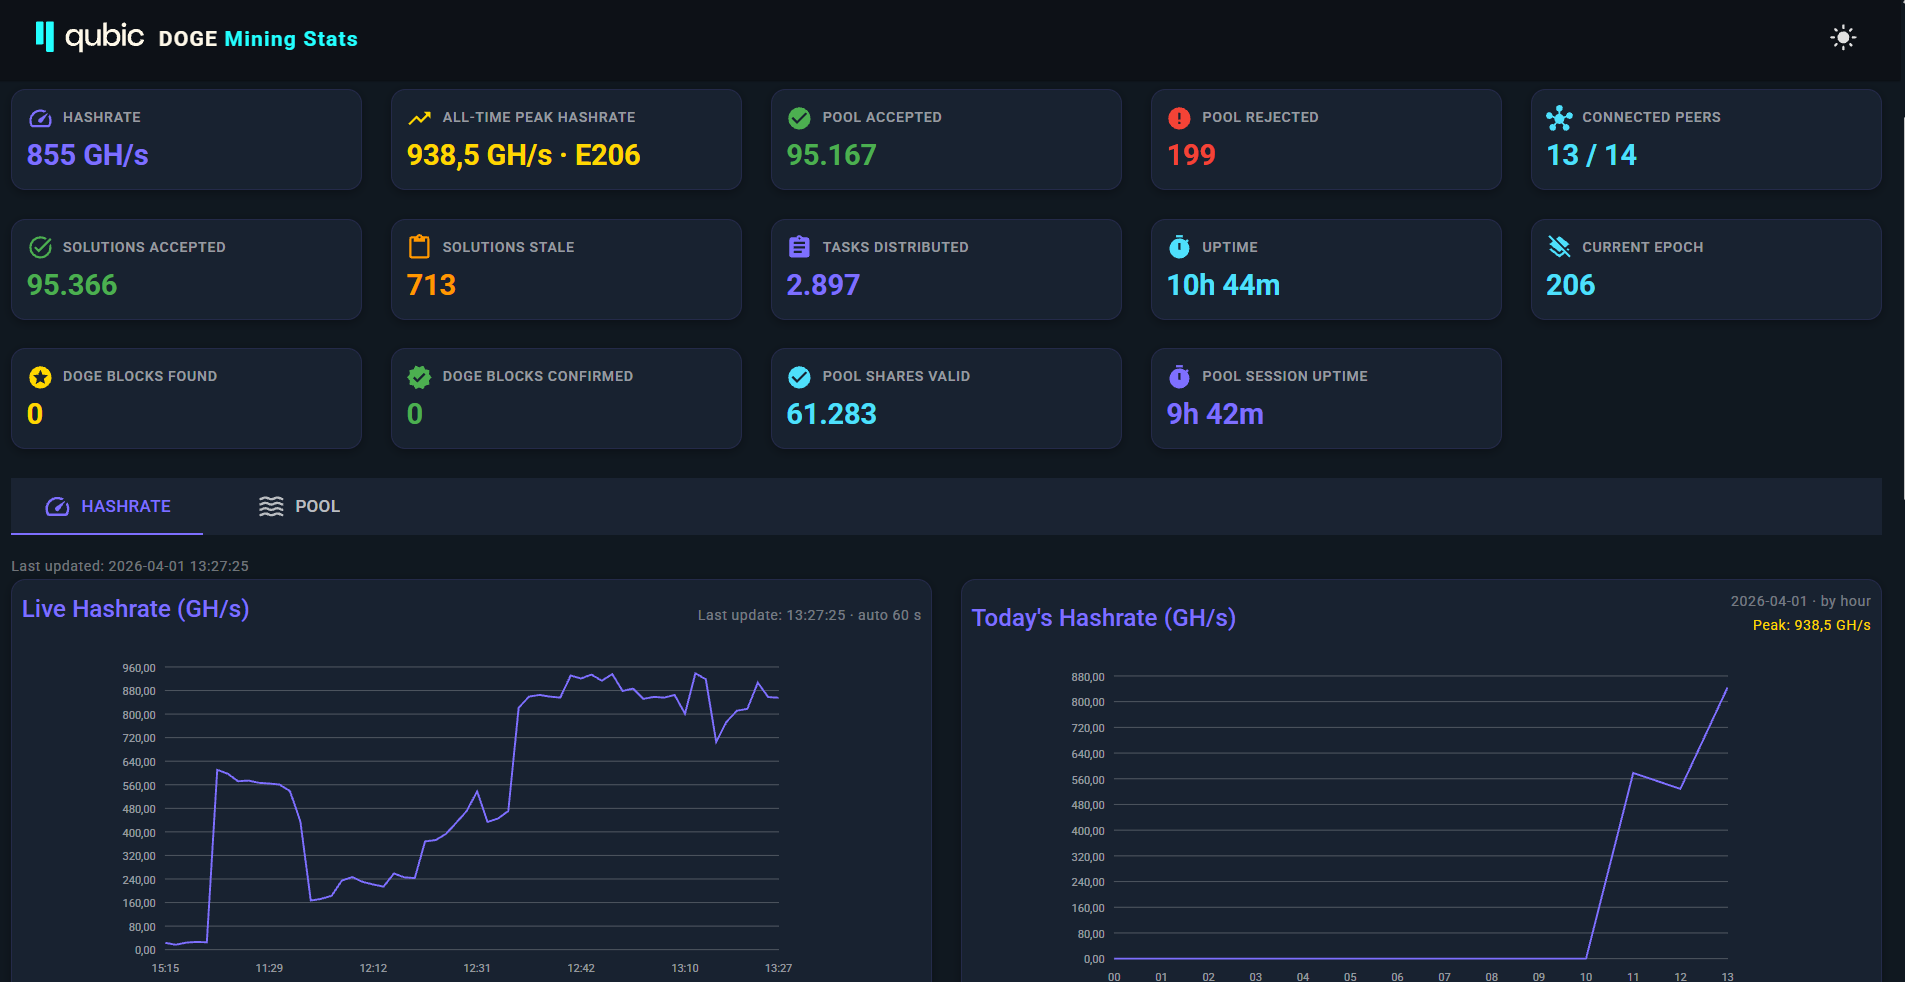
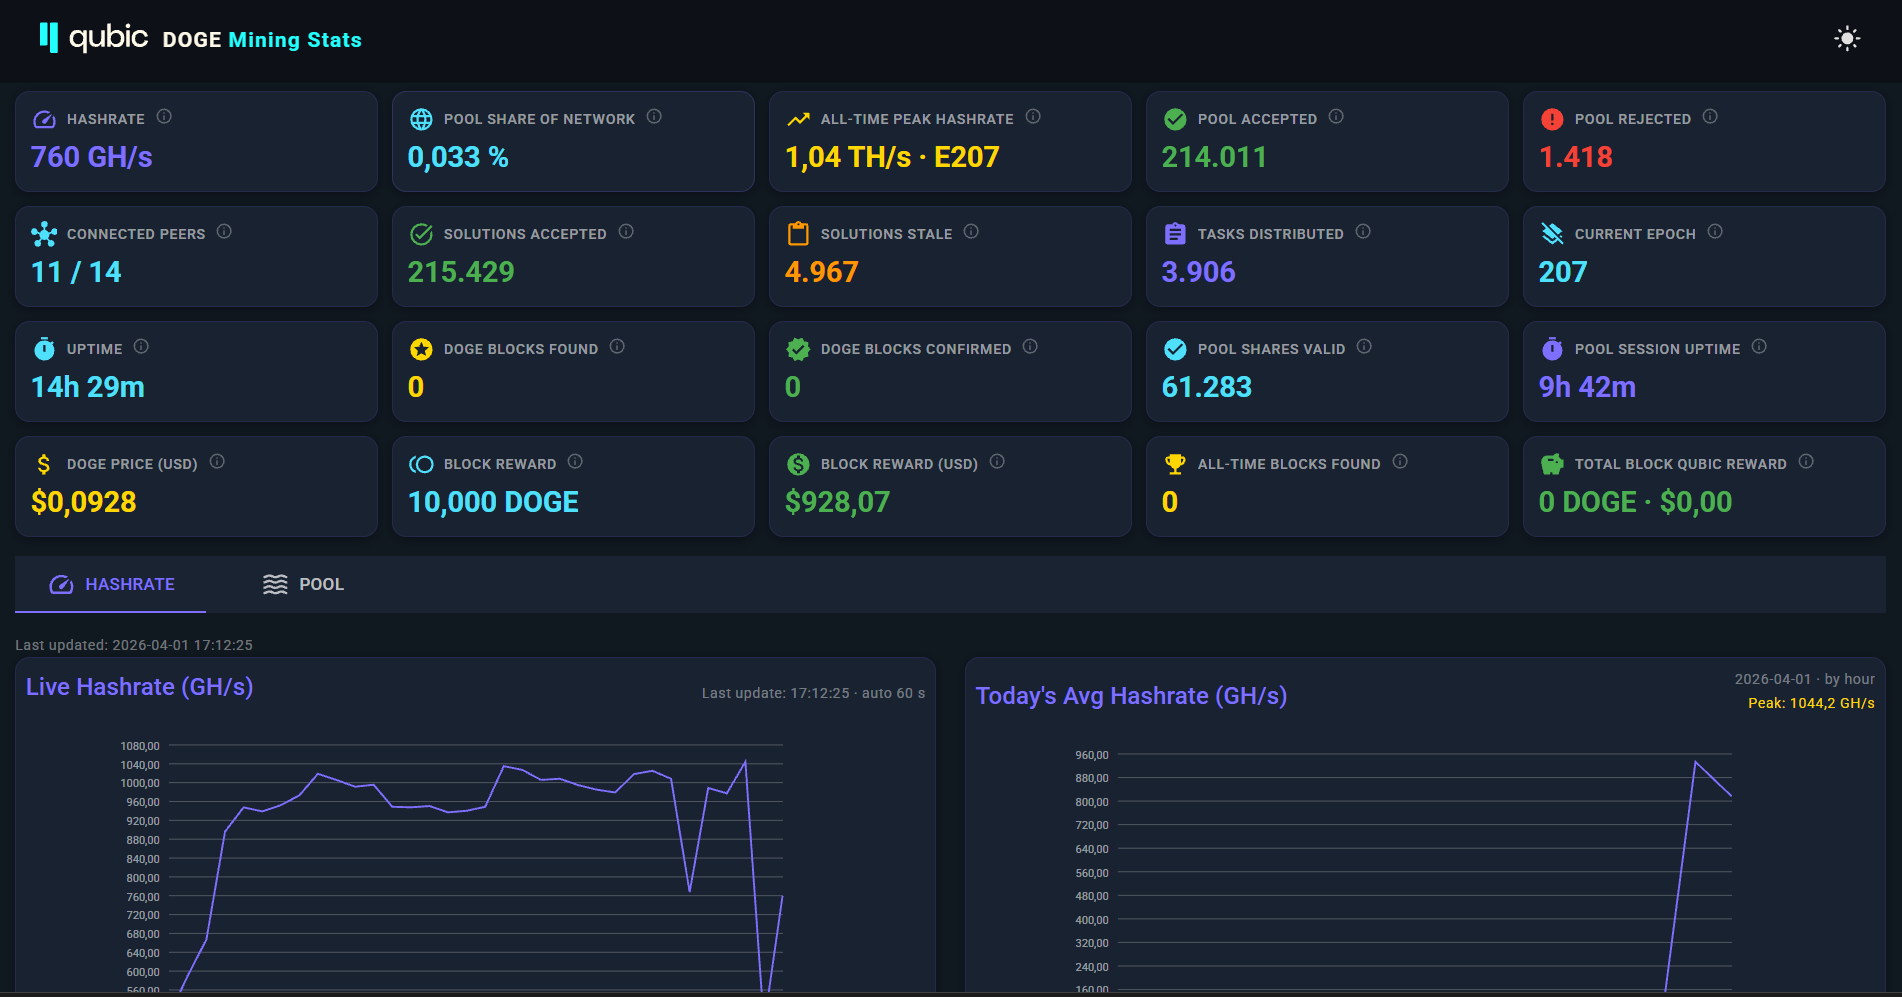
feat: v0.0.3 — glass UI, epoch chart fix, countdown removed
- Light mode: iOS-style glassmorphism with subtle lavender page tint
- Epoch timeline chart: filter by QubicEpoch tag only (was broken on epoch change day)
- Removed countdown section and CountdownBlock component
- Chart titles now show "Avg" where averages are displayed
- Hashrate ≥ 1 TH/s formatted with 2 decimal places
- Bump version to 0.0.3

diff --git a/qubic_doge_stats.Client/wwwroot/site.css b/qubic_doge_stats.Client/wwwroot/site.css
@@ -73,38 +73,6 @@
     stroke-width: 2.5px !important;
 }
 
-/* Digital Countdown Block */
-.countdown-block {
-    display: flex;
-    flex-direction: column;
-    align-items: center;
-    min-width: 80px;
-}
-
-.countdown-value {
-    font-family: 'Courier New', Courier, monospace;
-    font-size: 3.5rem;
-    font-weight: 700;
-    color: #7e6fff;
-    background: rgba(126, 111, 255, 0.1);
-    border: 1px solid rgba(126, 111, 255, 0.3);
-    border-radius: 8px;
-    padding: 8px 16px;
-    min-width: 90px;
-    text-align: center;
-    letter-spacing: 4px;
-    text-shadow: 0 0 20px rgba(126, 111, 255, 0.8);
-}
-
-.theme-light .countdown-label { color: rgba(20, 20, 50, 0.55); }
-
-.countdown-label {
-    font-size: 0.65rem;
-    color: rgba(255,255,255,0.5);
-    letter-spacing: 2px;
-    margin-top: 4px;
-    font-weight: 600;
-}
 
 .app-header-bar {
     height: auto !important;
@@ -193,45 +161,40 @@
     border-radius: 12px !important;
 }
 
-/* ===== Light mode: iOS-style ambient gradient background ===== */
+/* ===== Light mode: off-white background with subtle lavender tint ===== */
 .theme-light .mud-main-content {
-    background: linear-gradient(
-        135deg,
-        #ffddb8 0%,
-        #b8d8f8 28%,
-        #cbb8f0 56%,
-        #a8d8f0 80%,
-        #d0b8f8 100%
-    ) !important;
-    background-attachment: fixed !important;
-    min-height: calc(100vh - 56px);
+    background: linear-gradient(160deg, #f5f4fe 0%, #f9f8ff 40%, #f0f4ff 100%) !important;
 }
 
 /* ===== Light mode: iPhone-style glassmorphism ===== */
 .theme-light .glass-card {
-    background: rgba(255, 255, 255, 0.52) !important;
-    backdrop-filter: blur(24px) saturate(180%) brightness(1.05) !important;
-    -webkit-backdrop-filter: blur(24px) saturate(180%) brightness(1.05) !important;
-    border: 1px solid rgba(255, 255, 255, 0.72) !important;
+    background: rgba(255, 255, 255, 0.65) !important;
+    backdrop-filter: blur(20px) saturate(200%) brightness(1.02) !important;
+    -webkit-backdrop-filter: blur(20px) saturate(200%) brightness(1.02) !important;
+    border: 1px solid rgba(255, 255, 255, 0.85) !important;
     border-radius: 16px !important;
     box-shadow:
-        0 4px 24px rgba(0, 0, 0, 0.07),
-        inset 0 1px 0 rgba(255, 255, 255, 0.9) !important;
+        0 2px 0 rgba(255, 255, 255, 0.9),
+        0 4px 16px rgba(126, 111, 255, 0.07),
+        0 8px 32px rgba(0, 0, 0, 0.07),
+        inset 0 1px 0 rgba(255, 255, 255, 1) !important;
     transition: box-shadow 0.2s ease, border-color 0.2s ease;
 }
 
 .theme-light .glass-card:hover {
     box-shadow:
-        0 8px 32px rgba(126, 111, 255, 0.18),
-        inset 0 1px 0 rgba(255, 255, 255, 0.9) !important;
-    border-color: rgba(126, 111, 255, 0.4) !important;
+        0 2px 0 rgba(255, 255, 255, 0.9),
+        0 8px 28px rgba(126, 111, 255, 0.16),
+        0 16px 48px rgba(0, 0, 0, 0.09),
+        inset 0 1px 0 rgba(255, 255, 255, 1) !important;
+    border-color: rgba(126, 111, 255, 0.35) !important;
 }
 
 .theme-light .glass {
-    background: rgba(255, 255, 255, 0.45) !important;
-    backdrop-filter: blur(24px) saturate(180%) !important;
-    -webkit-backdrop-filter: blur(24px) saturate(180%) !important;
-    border: 1px solid rgba(255, 255, 255, 0.65) !important;
+    background: rgba(255, 255, 255, 0.55) !important;
+    backdrop-filter: blur(20px) saturate(200%) !important;
+    -webkit-backdrop-filter: blur(20px) saturate(200%) !important;
+    border: 1px solid rgba(255, 255, 255, 0.8) !important;
     border-radius: 16px !important;
     box-shadow: 0 4px 20px rgba(0, 0, 0, 0.06) !important;
 }
@@ -249,6 +212,34 @@
 .theme-light .glass-card [style*="color:#"] {
     opacity: 1;
 }
+
+/* ===== Light mode: MudTabs transparent background ===== */
+.theme-light .mud-tabs,
+.theme-light .mud-tab-panels,
+.theme-light .mud-tabs-panels {
+    background: transparent !important;
+}
+
+.theme-light .mud-tabs .mud-tab {
+    background: rgba(255, 255, 255, 0.4) !important;
+    backdrop-filter: blur(12px) !important;
+    -webkit-backdrop-filter: blur(12px) !important;
+    border-radius: 8px 8px 0 0 !important;
+    border: 1px solid rgba(255, 255, 255, 0.6) !important;
+    border-bottom: none !important;
+    margin-right: 4px;
+    color: rgba(20, 20, 50, 0.7) !important;
+}
+
+.theme-light .mud-tabs .mud-tab.mud-tab-active {
+    background: rgba(255, 255, 255, 0.65) !important;
+    color: #7e6fff !important;
+    border-color: rgba(126, 111, 255, 0.3) !important;
+}
+
+/* StatCard tooltip info icon */
+.theme-dark  .stat-card-info-icon { color: rgba(255, 255, 255, 0.30) !important; }
+.theme-light .stat-card-info-icon { color: rgba(20,  20,  50,  0.35) !important; }
 
 .footer-container {
     background-color: #0f1220;

diff --git a/README.md b/README.md
@@ -18,16 +18,15 @@ Data is polled every 60 seconds from the public [doge-stats.qubic.org](https://d
 - **DOGE price** (USD) — polled hourly from CoinPaprika
 - Qubic epoch tracking with automatic epoch-change detection
 - Epoch comparison charts (hashrate, solutions & pool shares per epoch)
-- Current epoch timeline chart (day-by-day breakdown)
+- Current epoch timeline chart (day-by-day breakdown, avg hashrate per day)
 - Today's hashrate by hour
-- Countdown to the next epoch transition
 - **Tooltips on all stat cards** — hover the info icon for an explanation of each metric
 - **Dogecoin Pool Dashboard** (tabbed on home page):
   - Live pool stats: blocks found/confirmed, shares valid/invalid, session uptime
   - Blocks per epoch bar chart
   - Recent blocks table with links to Dogechain Explorer
   - Full block history table
-- Light / dark mode
+- **Light / dark mode** with iOS-style glassmorphism panels in light mode
 - Fully self-hosted via Docker
 
 ---
